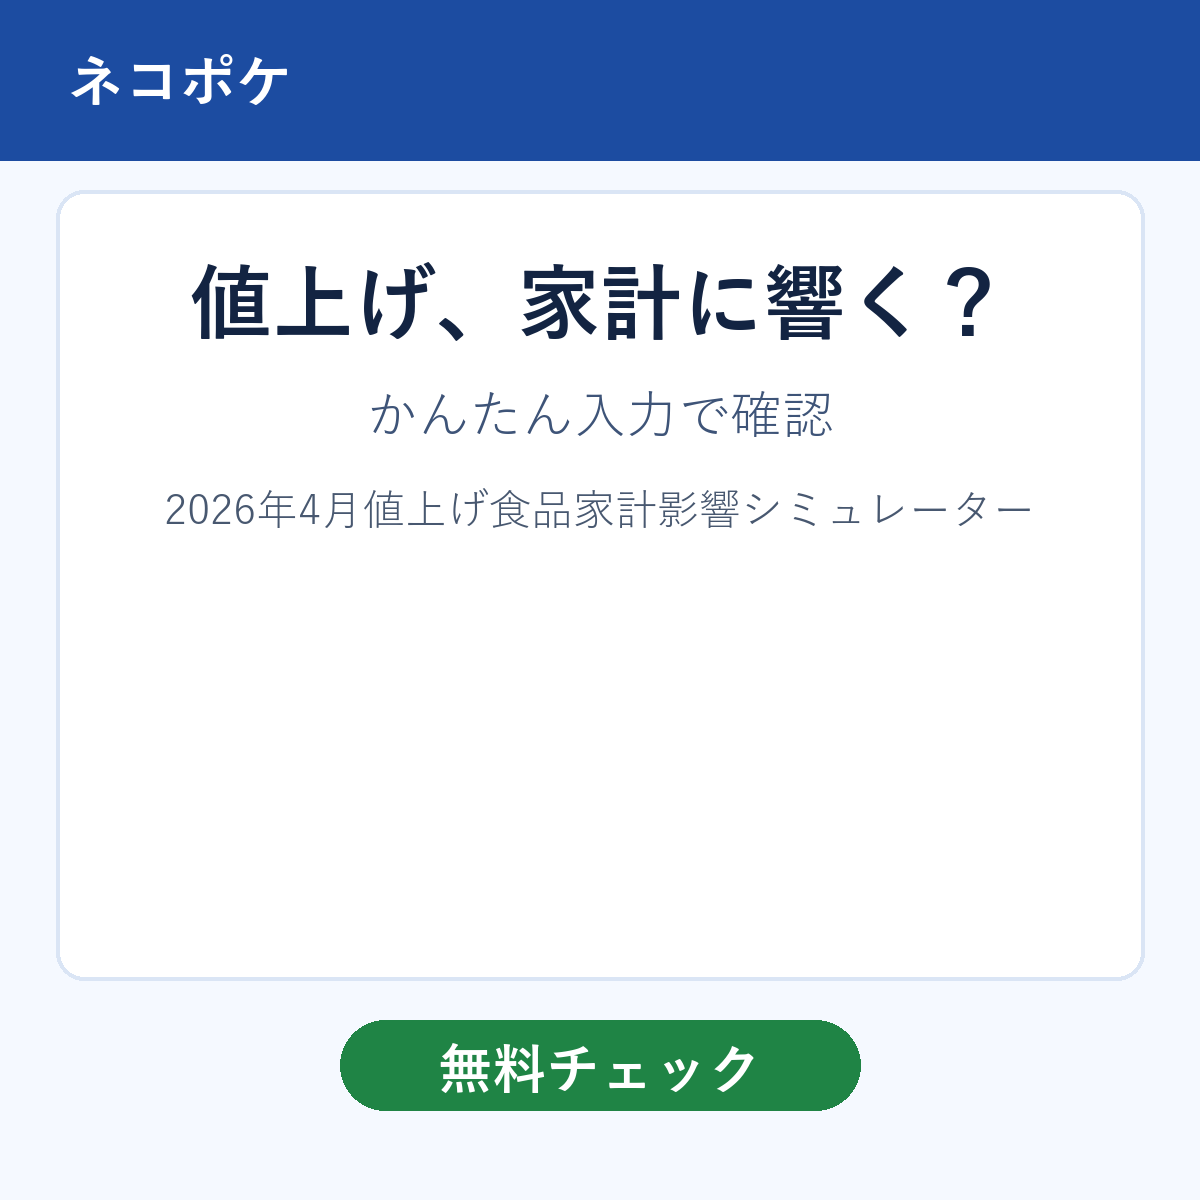
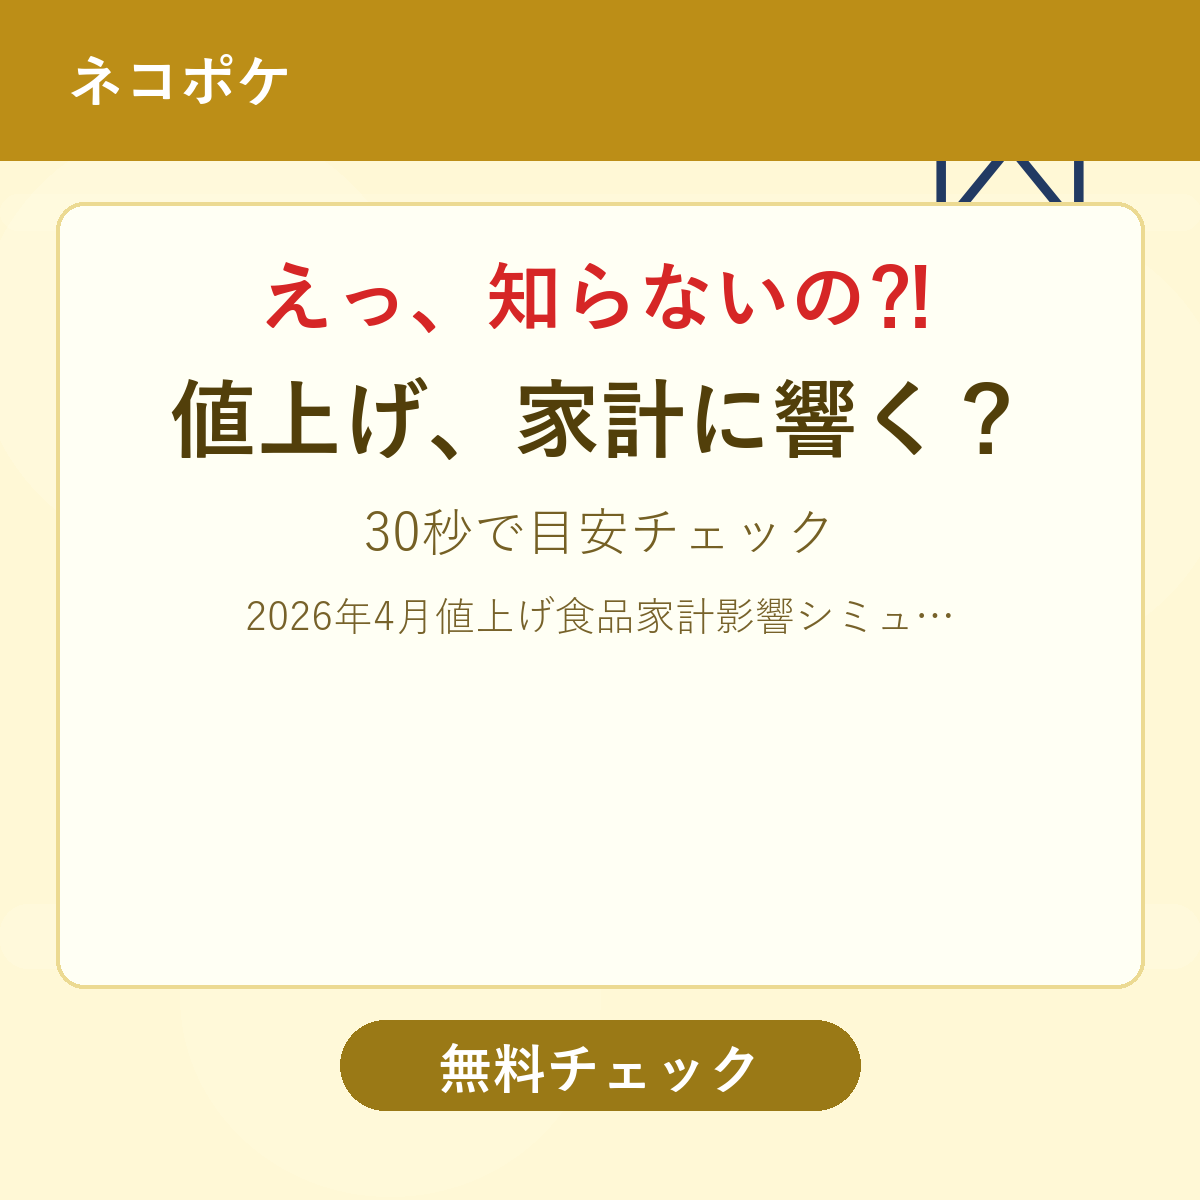
feat: improve sns card visuals and urls
Made-with: Cursor

diff --git a/sns/sns_card_generator.py b/sns/sns_card_generator.py
@@ -14,6 +14,86 @@ SNS_DIR = ROOT / "sns"
 CARDS_DIR = SNS_DIR / "cards"
 QUEUE_PATH = SNS_DIR / "sns_queue.json"
 
+STYLE_MAP = {
+    "money": {
+        "bg": (255, 248, 214),
+        "header": (188, 142, 23),
+        "panel": (255, 255, 244),
+        "outline": (236, 218, 146),
+        "title": (82, 63, 10),
+        "sub": (117, 96, 36),
+        "app": (119, 98, 42),
+        "cta": (154, 121, 22),
+        "icons": ["💰"],
+    },
+    "insurance": {
+        "bg": (231, 243, 255),
+        "header": (39, 108, 195),
+        "panel": (245, 250, 255),
+        "outline": (176, 207, 242),
+        "title": (19, 56, 105),
+        "sub": (44, 86, 143),
+        "app": (67, 98, 140),
+        "cta": (29, 118, 194),
+        "icons": ["🛡"],
+    },
+    "disaster": {
+        "bg": (255, 239, 225),
+        "header": (213, 104, 44),
+        "panel": (255, 250, 244),
+        "outline": (244, 192, 154),
+        "title": (116, 54, 16),
+        "sub": (142, 78, 33),
+        "app": (142, 91, 58),
+        "cta": (213, 104, 44),
+        "icons": ["⚠"],
+    },
+    "health": {
+        "bg": (230, 246, 236),
+        "header": (48, 133, 89),
+        "panel": (246, 252, 248),
+        "outline": (176, 222, 191),
+        "title": (25, 85, 53),
+        "sub": (46, 106, 73),
+        "app": (72, 118, 91),
+        "cta": (53, 149, 94),
+        "icons": ["🏥"],
+    },
+    "work": {
+        "bg": (233, 237, 247),
+        "header": (45, 64, 115),
+        "panel": (244, 247, 255),
+        "outline": (183, 193, 226),
+        "title": (31, 47, 84),
+        "sub": (58, 74, 115),
+        "app": (81, 91, 121),
+        "cta": (52, 74, 132),
+        "icons": ["💼"],
+    },
+    "life": {
+        "bg": (246, 239, 227),
+        "header": (145, 110, 70),
+        "panel": (252, 249, 244),
+        "outline": (226, 205, 176),
+        "title": (89, 63, 34),
+        "sub": (115, 85, 52),
+        "app": (124, 100, 74),
+        "cta": (166, 128, 82),
+        "icons": ["🏠"],
+    },
+    "other": {
+        "bg": (245, 249, 255),
+        "header": (28, 76, 161),
+        "panel": (255, 255, 255),
+        "outline": (218, 229, 245),
+        "title": (19, 36, 66),
+        "sub": (62, 84, 120),
+        "app": (72, 88, 112),
+        "cta": (31, 132, 69),
+        "icons": ["✨"],
+    },
+}
+
 
 def _load_font(size: int, bold: bool = False) -> ImageFont.FreeTypeFont | ImageFont.ImageFont:
     candidates = [
@@ -38,6 +118,68 @@ def _safe_card_basename(app_path: str) -> str:
     if not base:
         base = "app"
     return f"{base}_{h}"
+
+
+def _variant_seed(item: dict[str, Any]) -> int:
+    key = str(item.get("app_path") or item.get("id") or "")
+    h = hashlib.sha1(key.encode("utf-8")).hexdigest()[:8]
+    return int(h, 16)
+
+
+def _pick_theme(item: dict[str, Any]) -> dict[str, Any]:
+    category = str(item.get("category_guess") or "")
+    app_name = str(item.get("app_name") or "")
+    text = f"{category} {app_name}"
+
+    if any(k in text for k in ["お金", "家計", "税", "値上げ", "住民税", "手取り", "年収"]):
+        return STYLE_MAP["money"]
+    if any(k in text for k in ["保険", "補償", "火災"]):
+        return STYLE_MAP["insurance"]
+    if any(k in text for k in ["防災", "地震", "台風", "避難", "災害"]):
+        return STYLE_MAP["disaster"]
+    if any(k in text for k in ["健康", "医療", "病院", "症状", "受診"]):
+        return STYLE_MAP["health"]
+    if any(k in text for k in ["仕事", "実務", "業務", "人事", "給与"]):
+        return STYLE_MAP["work"]
+    if any(k in text for k in ["生活", "契約", "引っ越し", "退去", "暮らし"]):
+        return STYLE_MAP["life"]
+    return STYLE_MAP["other"]
+
+
+def _draw_background_decor(draw: ImageDraw.ImageDraw, theme: dict[str, Any], seed: int) -> None:
+    bg = theme["bg"]
+    overlay1 = (255, 255, 255, 58)
+    overlay2 = (255, 255, 255, 42)
+    overlay3 = (255, 255, 255, 36)
+
+    # soft circles
+    shift = seed % 70
+    draw.ellipse((40 - shift, 120, 480 - shift, 560), fill=overlay1)
+    draw.ellipse((760 + (shift // 2), 220, 1200 + (shift // 2), 660), fill=overlay2)
+    draw.ellipse((180, 780 + (shift // 4), 600, 1180 + (shift // 4)), fill=overlay3)
+
+    # soft diagonal-ish bands
+    band_y = 880 + (seed % 60)
+    draw.rounded_rectangle((0, band_y, 1200, band_y + 64), radius=28, fill=(255, 255, 255, 55))
+    band_y2 = 190 + (seed % 40)
+    draw.rounded_rectangle((0, band_y2, 1200, band_y2 + 36), radius=18, fill=(255, 255, 255, 48))
+
+    # background recolor layer for subtle tinting
+    draw.rectangle((0, 0, 1200, 1200), fill=(*bg, 120))
+
+
+def _draw_large_icon(draw: ImageDraw.ImageDraw, icon: str, seed: int) -> None:
+    font = _load_font(184, bold=True)
+    fill = (34, 58, 99, 150)
+    # Always top-right for clearer genre cue in feed.
+    draw.text((918, 54), icon, font=font, fill=fill)
+
+
+def _shorten_app_name(name: str, max_chars: int = 20) -> str:
+    text = name.strip()
+    if len(text) <= max_chars:
+        return text
+    return text[: max_chars - 1] + "…"
 
 
 def _fix_orphan_punctuation(lines: list[str]) -> list[str]:
@@ -120,33 +262,64 @@ def _draw_multiline_center(
 
 
 def _generate_card(item: dict[str, Any], path: Path) -> None:
-    image = Image.new("RGB", (1200, 1200), (245, 249, 255))
-    draw = ImageDraw.Draw(image)
+    theme = _pick_theme(item)
+    seed = _variant_seed(item)
+    icon_list = theme.get("icons") or ["✨"]
+    icon = icon_list[seed % len(icon_list)]
+    image = Image.new("RGB", (1200, 1200), theme["bg"])
+    draw = ImageDraw.Draw(image, "RGBA")
+    _draw_background_decor(draw, theme, seed)
+    _draw_large_icon(draw, icon, seed)
 
     # Header band
-    draw.rectangle((0, 0, 1200, 160), fill=(28, 76, 161))
-    draw.text((68, 52), "ネコポケ", font=_load_font(56, bold=True), fill=(255, 255, 255))
+    draw.rectangle((0, 0, 1200, 160), fill=theme["header"])
+    draw.text((68, 52), "ネコポケ", font=_load_font(56, bold=True), fill=(255, 255, 255, 255))
 
     # Soft content panel
-    draw.rounded_rectangle((56, 190, 1144, 980), radius=28, fill=(255, 255, 255), outline=(218, 229, 245), width=4)
+    panel_y = 190 + (seed % 18)
+    panel_h = 790 - (seed % 16)
+    draw.rounded_rectangle(
+        (56, panel_y, 1144, panel_y + panel_h),
+        radius=28,
+        fill=theme["panel"],
+        outline=theme["outline"],
+        width=4,
+    )
 
-    title = str(item.get("image_title") or "無料チェック")
-    subtitle = str(item.get("image_subtitle") or "まずは目安を確認")
-    app_name = str(item.get("app_name") or "")
+    title = str(item.get("image_title") or "いまの状況を確認")
+    app_name = _shorten_app_name(str(item.get("app_name") or ""), max_chars=20)
 
-    y = 260
-    y = _draw_multiline_center(draw, title, y, size=82, color=(19, 36, 66), max_width=960, max_lines=2, bold=True)
+    # Fixed line 1 (always the same, red and eye-catching)
+    y = panel_y + 56
+    y = _draw_multiline_center(
+        draw,
+        "えっ、知らないの⁈",
+        y,
+        size=76,
+        color=(214, 38, 38),
+        max_width=980,
+        max_lines=1,
+        bold=True,
+    )
+    y += 20
+
+    # Line 2 (per-app main heading)
+    y = _draw_multiline_center(draw, title, y, size=86, color=theme["title"], max_width=960, max_lines=2, bold=True)
+    y += 20
+
+    # Line 3 (fixed subtitle baseline)
+    y = _draw_multiline_center(draw, "30秒で目安チェック", y, size=52, color=theme["sub"], max_width=940, max_lines=1)
     y += 24
-    y = _draw_multiline_center(draw, subtitle, y, size=52, color=(62, 84, 120), max_width=940, max_lines=2)
-    y += 34
-    _draw_multiline_center(draw, app_name, y, size=42, color=(72, 88, 112), max_width=940, max_lines=3)
+
+    # Line 4 (app name, small)
+    _draw_multiline_center(draw, app_name, y, size=40, color=theme["app"], max_width=940, max_lines=3)
 
     # CTA-like footer label (for card only, not posting)
-    draw.rounded_rectangle((340, 1020, 860, 1110), radius=45, fill=(31, 132, 69))
+    draw.rounded_rectangle((340, 1020, 860, 1110), radius=45, fill=theme["cta"])
     cta_text = "無料チェック"
     cta_font = _load_font(54, bold=True)
     cta_w = draw.textbbox((0, 0), cta_text, font=cta_font)[2]
-    draw.text((600 - int(cta_w / 2), 1041), cta_text, font=cta_font, fill=(255, 255, 255))
+    draw.text((600 - int(cta_w / 2), 1041), cta_text, font=cta_font, fill=(255, 255, 255, 255))
 
     path.parent.mkdir(parents=True, exist_ok=True)
     image.save(path, format="PNG")
@@ -165,7 +338,7 @@ def main(force: bool = False) -> int:
     for item in queue:
         if not isinstance(item, dict):
             continue
-        if item.get("status") != "draft":
+        if item.get("status") not in {"draft", "scheduled"}:
             continue
         app_path = str(item.get("app_path") or item.get("id") or "post")
         existing_rel = item.get("card_image")
